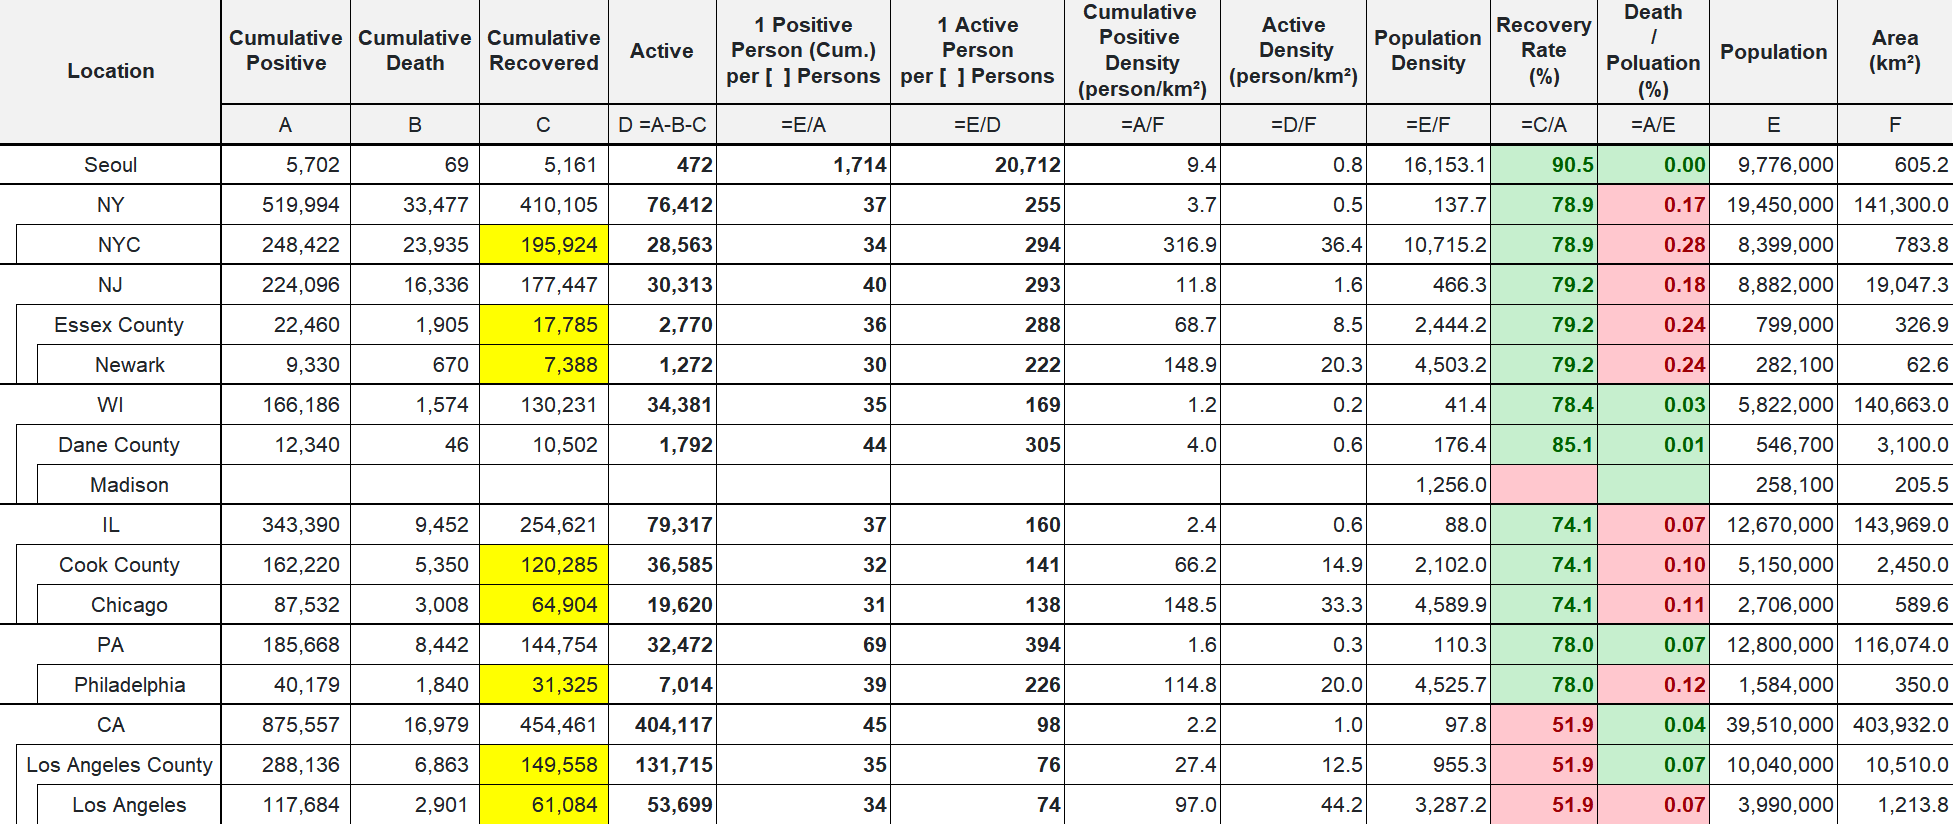
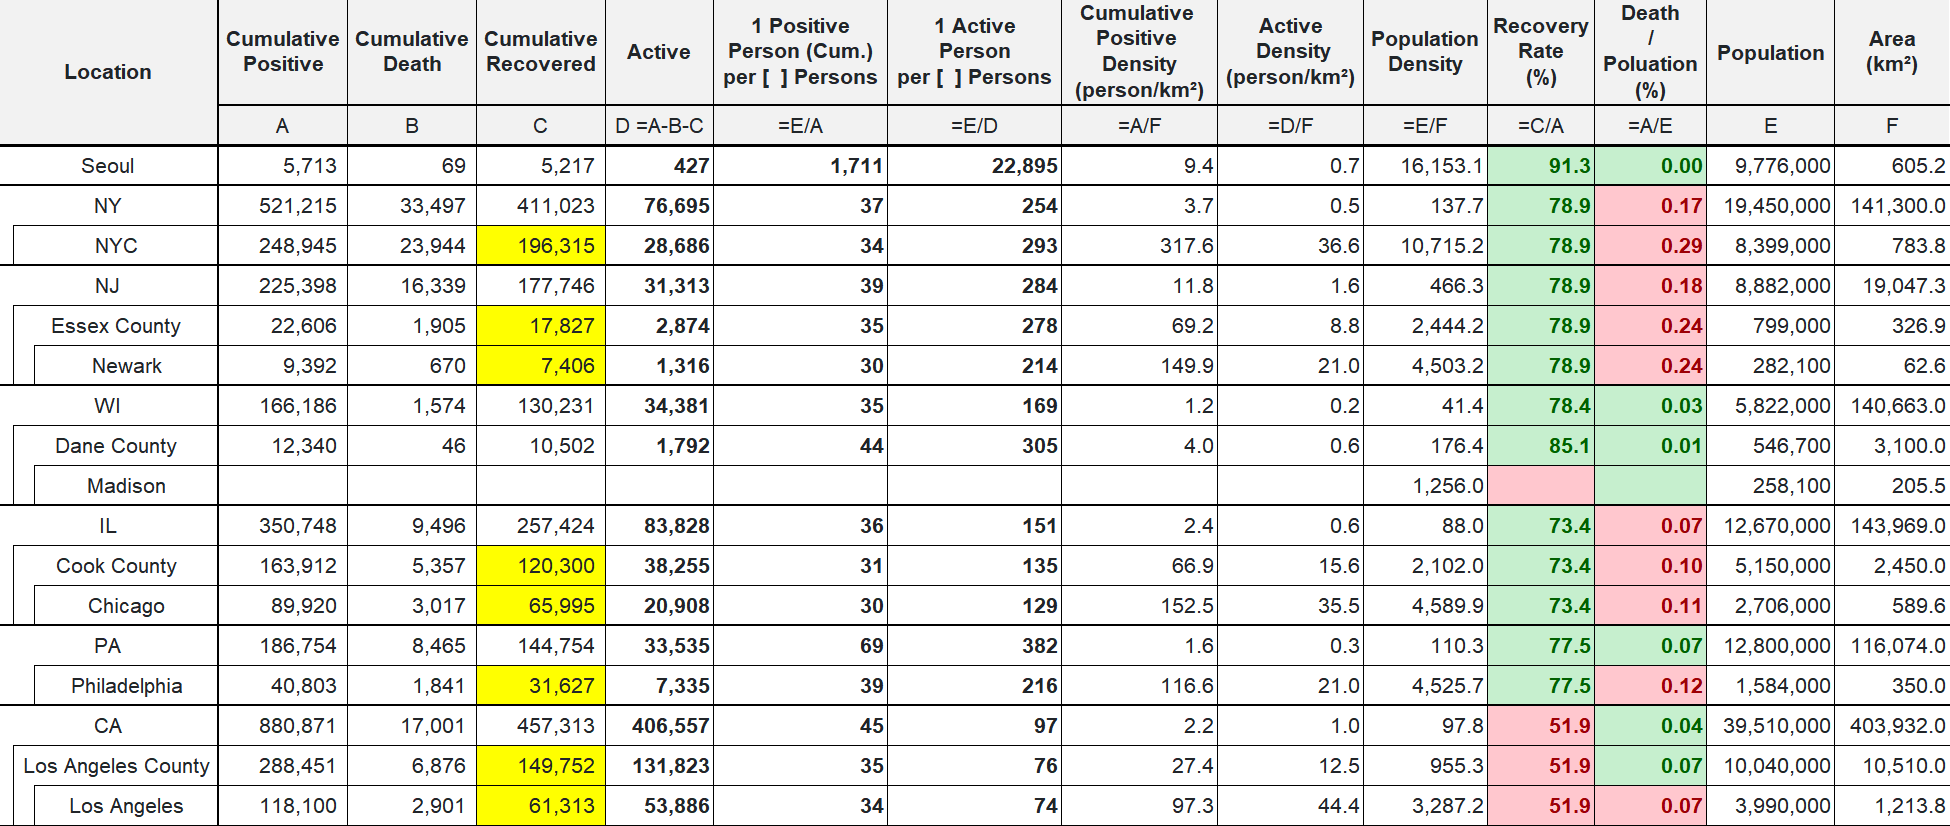
update 10/19 status

diff --git a/index.html b/index.html
@@ -19,7 +19,7 @@
 
 <body class="container-fluid">
 	<h1> CoronaV for Friends</h1>
-	<h2> Data updated at Oct 18 2020 EST 21:35</h2>
+	<h2> Data updated at Oct 19 2020 EST 22:55</h2>
 	<hr>
 	<main>
 		<div class="row">
